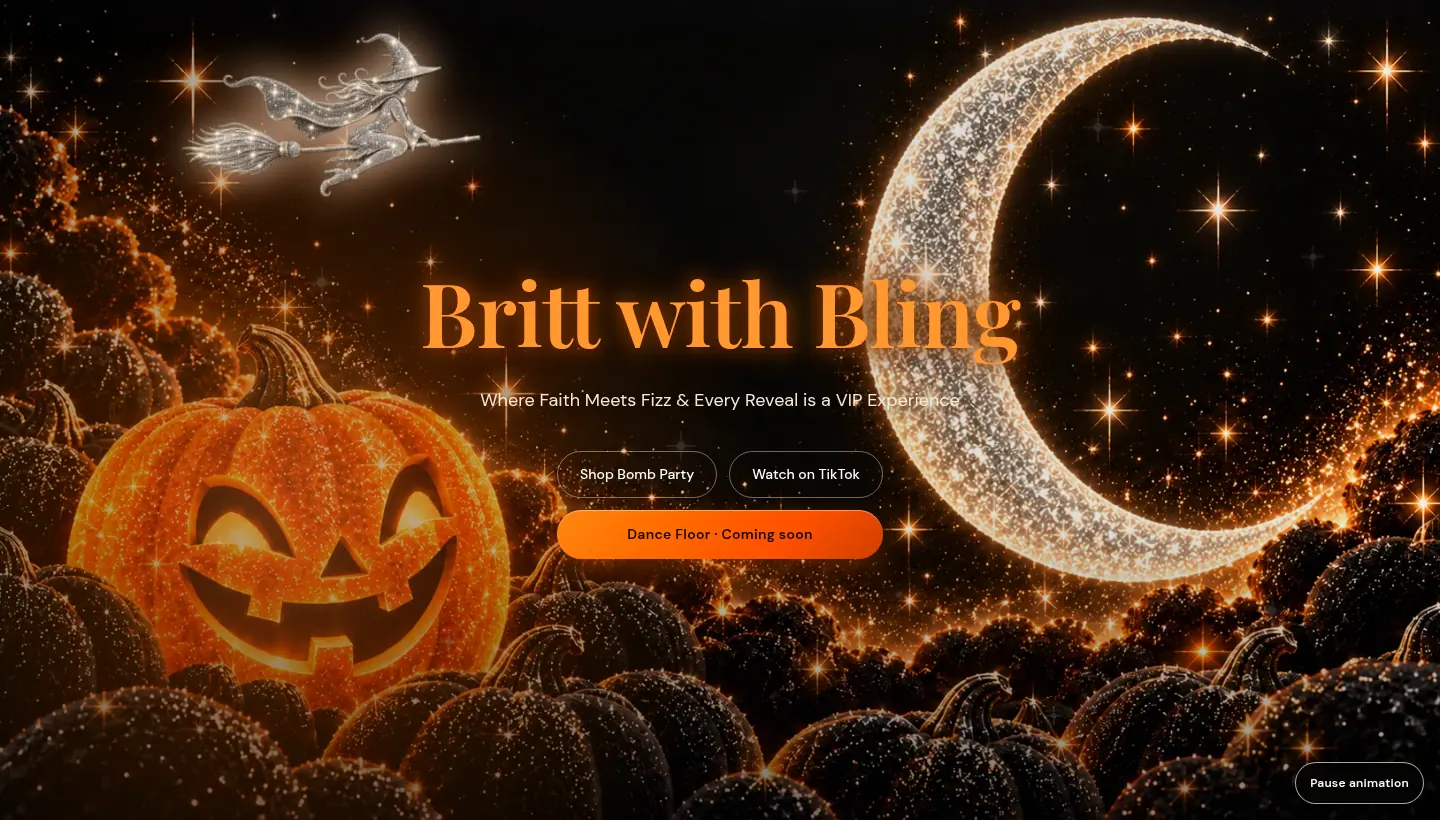
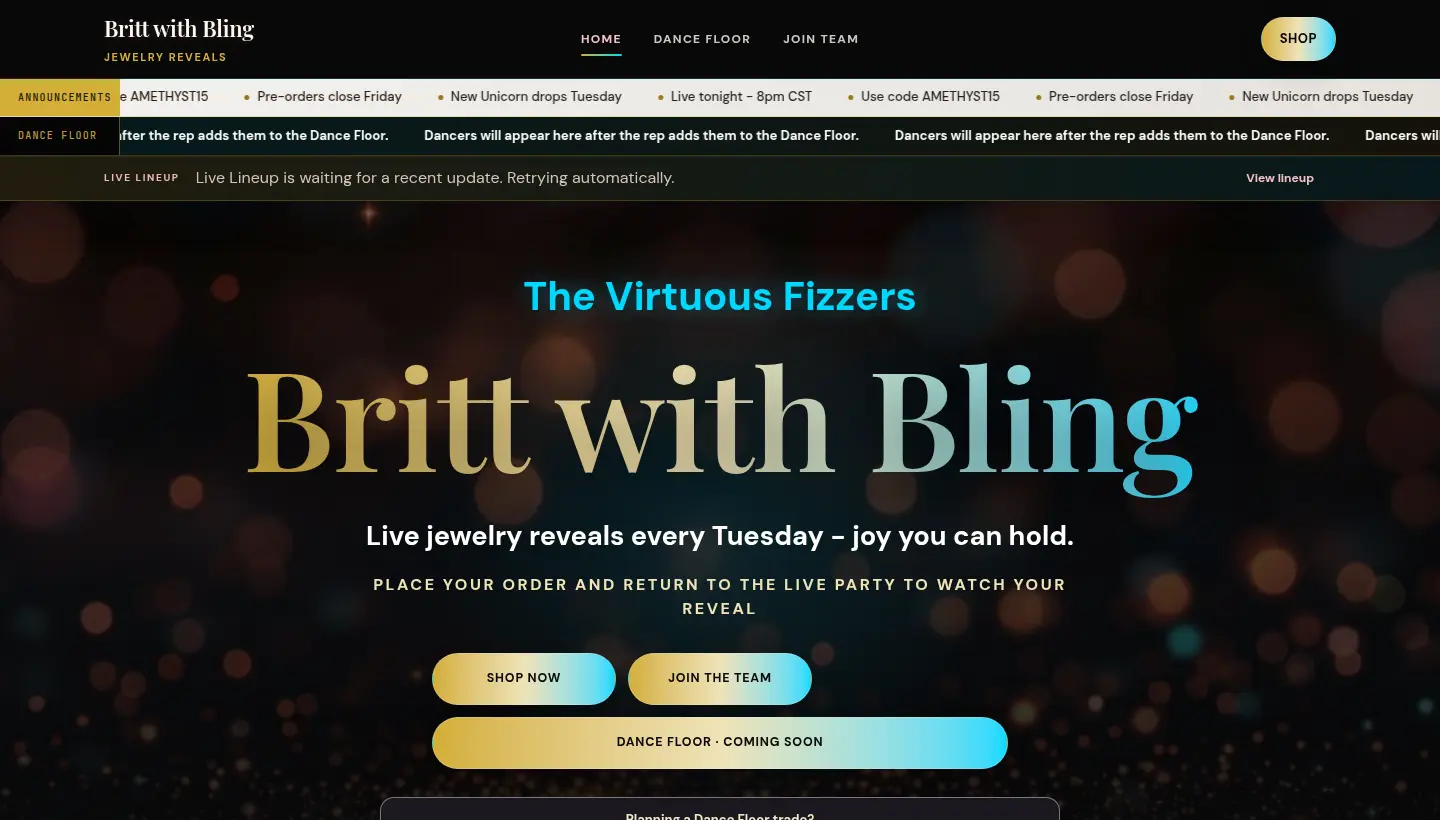
Show five custom brand peeks on the Portfolio rep carousel (#31)
Portfolio rep carousel: five custom-brand peeks instead of Halloween live crops.

Mile High Fizz, Britt with Bling, BlingKitchen, Go for the Bling, Sparkly Butterflies.

diff --git a/lib/sparkle-suite/portfolio-content.ts b/lib/sparkle-suite/portfolio-content.ts
@@ -45,18 +45,18 @@ export const sparkleSuitePortfolioContent = {
       id: 'rep-highlights',
       eyebrow: 'Rep highlights',
       heading: 'Live shows, with the name on the door.',
-      body: 'These are customer-facing sites on the floor right now. Each one is a real show.',
+      body: 'These are customer-facing sites on the floor right now. Each peek is that show’s own custom look.',
       label: 'Rep highlights',
       slides: [
         {
           id: 'mile-high-fizz',
           kind: 'capture',
           title: 'Mile High Fizz',
-          detail: 'Lindsey’s live customer site, dressed for Halloween.',
+          detail: 'Lindsey’s custom Mile High Fizz site.',
           href: 'https://milehighfizz.com/',
           linkLabel: 'milehighfizz.com',
           src: '/sparkle-suite/portfolio/mile-high-fizz-hero.webp',
-          alt: 'Mile High Fizz customer homepage hero on the Halloween theme, with the show name and shop actions.',
+          alt: 'Mile High Fizz custom homepage hero, with Lindsey’s pink and blue show name over the live-reveal video.',
           width: 1440,
           height: 820,
         },
@@ -64,11 +64,11 @@ export const sparkleSuitePortfolioContent = {
           id: 'britt-with-bling',
           kind: 'capture',
           title: 'Britt with Bling',
-          detail: 'Brittany’s live customer site, dressed for Halloween.',
+          detail: 'Brittany’s custom Britt with Bling site.',
           href: 'https://brittwithbling.com/',
           linkLabel: 'brittwithbling.com',
           src: '/sparkle-suite/portfolio/britt-with-bling-hero.webp',
-          alt: 'Britt with Bling customer homepage hero on the Halloween theme, with the show name and shop actions.',
+          alt: 'Britt with Bling custom homepage hero, with the black, gold, and blush show name over Brittany’s portrait.',
           width: 1440,
           height: 820,
         },
@@ -76,13 +76,37 @@ export const sparkleSuitePortfolioContent = {
           id: 'blingkitchen',
           kind: 'capture',
           title: 'BlingKitchen',
-          detail: 'Heather’s live customer site, dressed for Halloween.',
+          detail: 'Heather’s custom BlingKitchen site.',
           href: 'https://theblingkitchen.com/',
           linkLabel: 'theblingkitchen.com',
           src: '/sparkle-suite/portfolio/blingkitchen-hero.webp',
-          alt: 'BlingKitchen customer homepage hero on the Halloween theme, with the show headline and shop actions.',
+          alt: 'BlingKitchen custom homepage hero, with Heather’s kitchen photograph and plum shop actions.',
           width: 1440,
-          height: 886,
+          height: 820,
+        },
+        {
+          id: 'go-for-the-bling',
+          kind: 'capture',
+          title: 'Go for the Bling',
+          detail: 'Kim’s custom Gnome Forest site.',
+          href: 'https://goforthebling.com/',
+          linkLabel: 'goforthebling.com',
+          src: '/sparkle-suite/portfolio/go-for-the-bling-hero.webp',
+          alt: 'Go for the Bling custom homepage hero on the Gnome Forest theme, with woodland art and Kim’s show name.',
+          width: 1440,
+          height: 820,
+        },
+        {
+          id: 'sparkly-butterflies',
+          kind: 'capture',
+          title: 'Sparkly Butterflies',
+          detail: 'Kelly’s custom Neon Butterfly site.',
+          href: 'https://sparklybutterflies.com/',
+          linkLabel: 'sparklybutterflies.com',
+          src: '/sparkle-suite/portfolio/sparkly-butterflies-hero.webp',
+          alt: 'Sparkly Butterflies custom homepage hero on the Neon Butterfly theme, with Kelly’s neon studio and glowing signs.',
+          width: 1440,
+          height: 820,
         },
       ],
     },

diff --git a/tests/sparkle-suite-portfolio.test.ts b/tests/sparkle-suite-portfolio.test.ts
@@ -58,9 +58,30 @@ describe('Sparkle Suite portfolio page', () => {
       expect(slide.alt.length).toBeGreaterThan(20)
     }
 
+    const repSlides = sparkleSuitePortfolioContent.carousels.find((carousel) => carousel.id === 'rep-highlights')?.slides
+    expect(repSlides?.map((slide) => slide.title)).toEqual([
+      'Mile High Fizz',
+      'Britt with Bling',
+      'BlingKitchen',
+      'Go for the Bling',
+      'Sparkly Butterflies',
+    ])
+    expect(repSlides?.map((slide) => slide.kind === 'capture' ? slide.href : '')).toEqual([
+      'https://milehighfizz.com/',
+      'https://brittwithbling.com/',
+      'https://theblingkitchen.com/',
+      'https://goforthebling.com/',
+      'https://sparklybutterflies.com/',
+    ])
+    for (const slide of repSlides ?? []) {
+      expect(`${slide.title} ${slide.detail}`).not.toMatch(/halloween|pumpkin|witch/i)
+      if (slide.kind === 'capture') expect(slide.alt).not.toMatch(/halloween|pumpkin|witch/i)
+    }
     expect(html).toContain('href="https://milehighfizz.com/"')
     expect(html).toContain('href="https://brittwithbling.com/"')
     expect(html).toContain('href="https://theblingkitchen.com/"')
+    expect(html).toContain('href="https://goforthebling.com/"')
+    expect(html).toContain('href="https://sparklybutterflies.com/"')
     expect(html).toContain('Real capture still to come')
     expect(html.match(/Placeholder/g)?.length).toBeGreaterThanOrEqual(2)
   })
